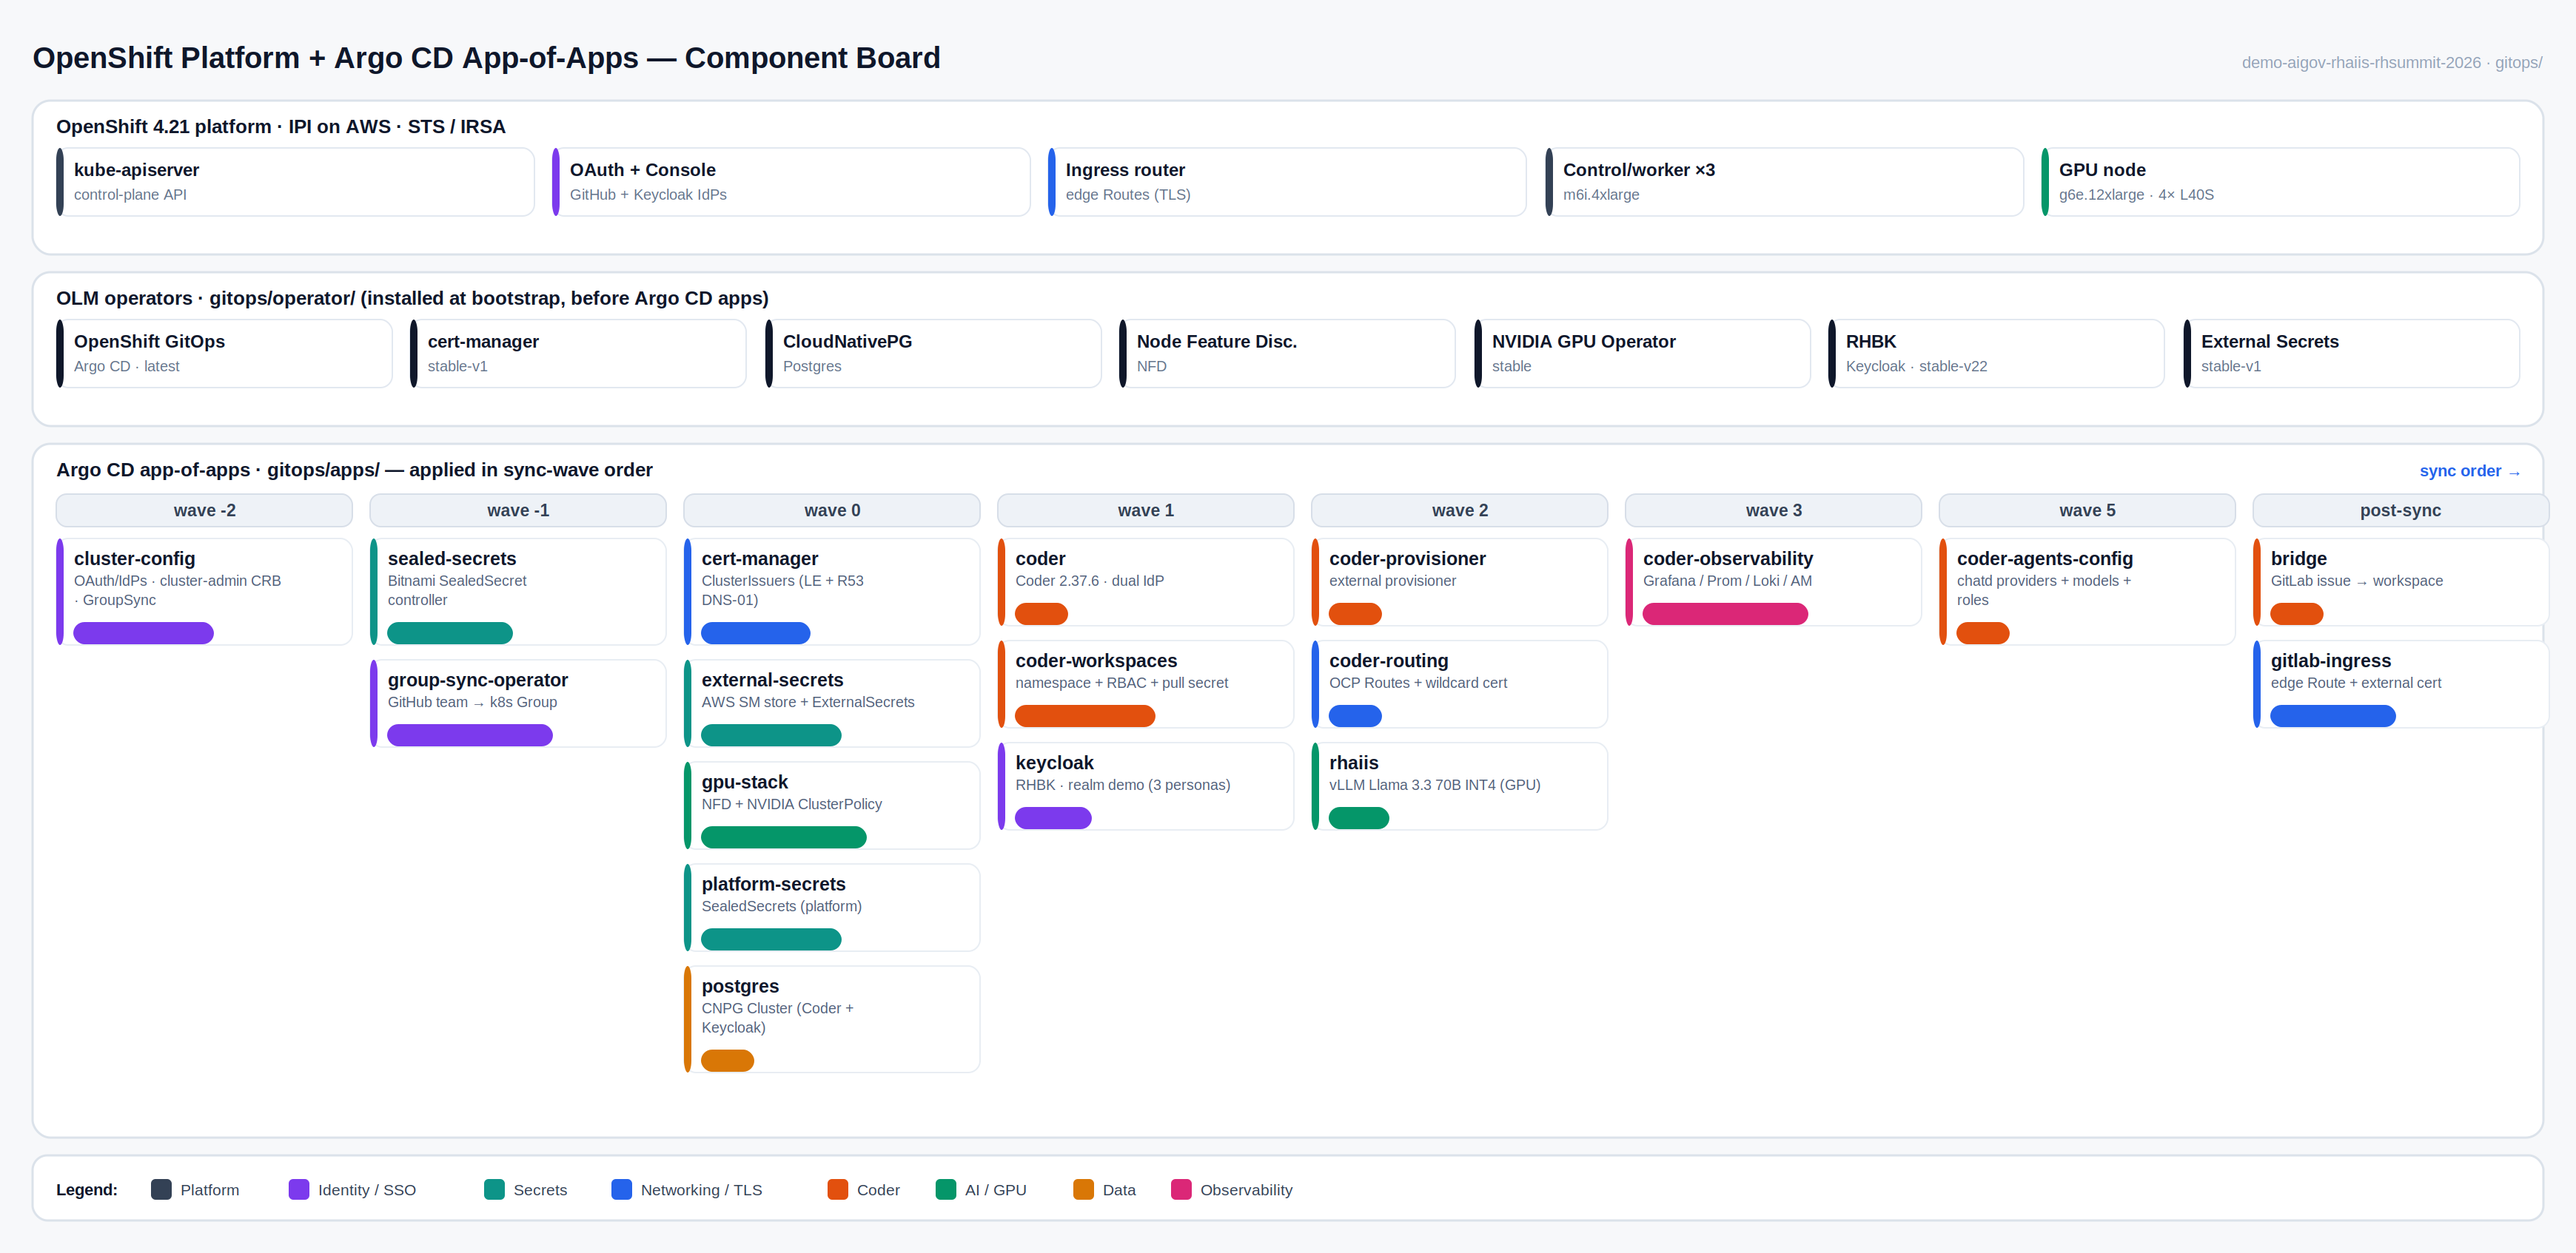
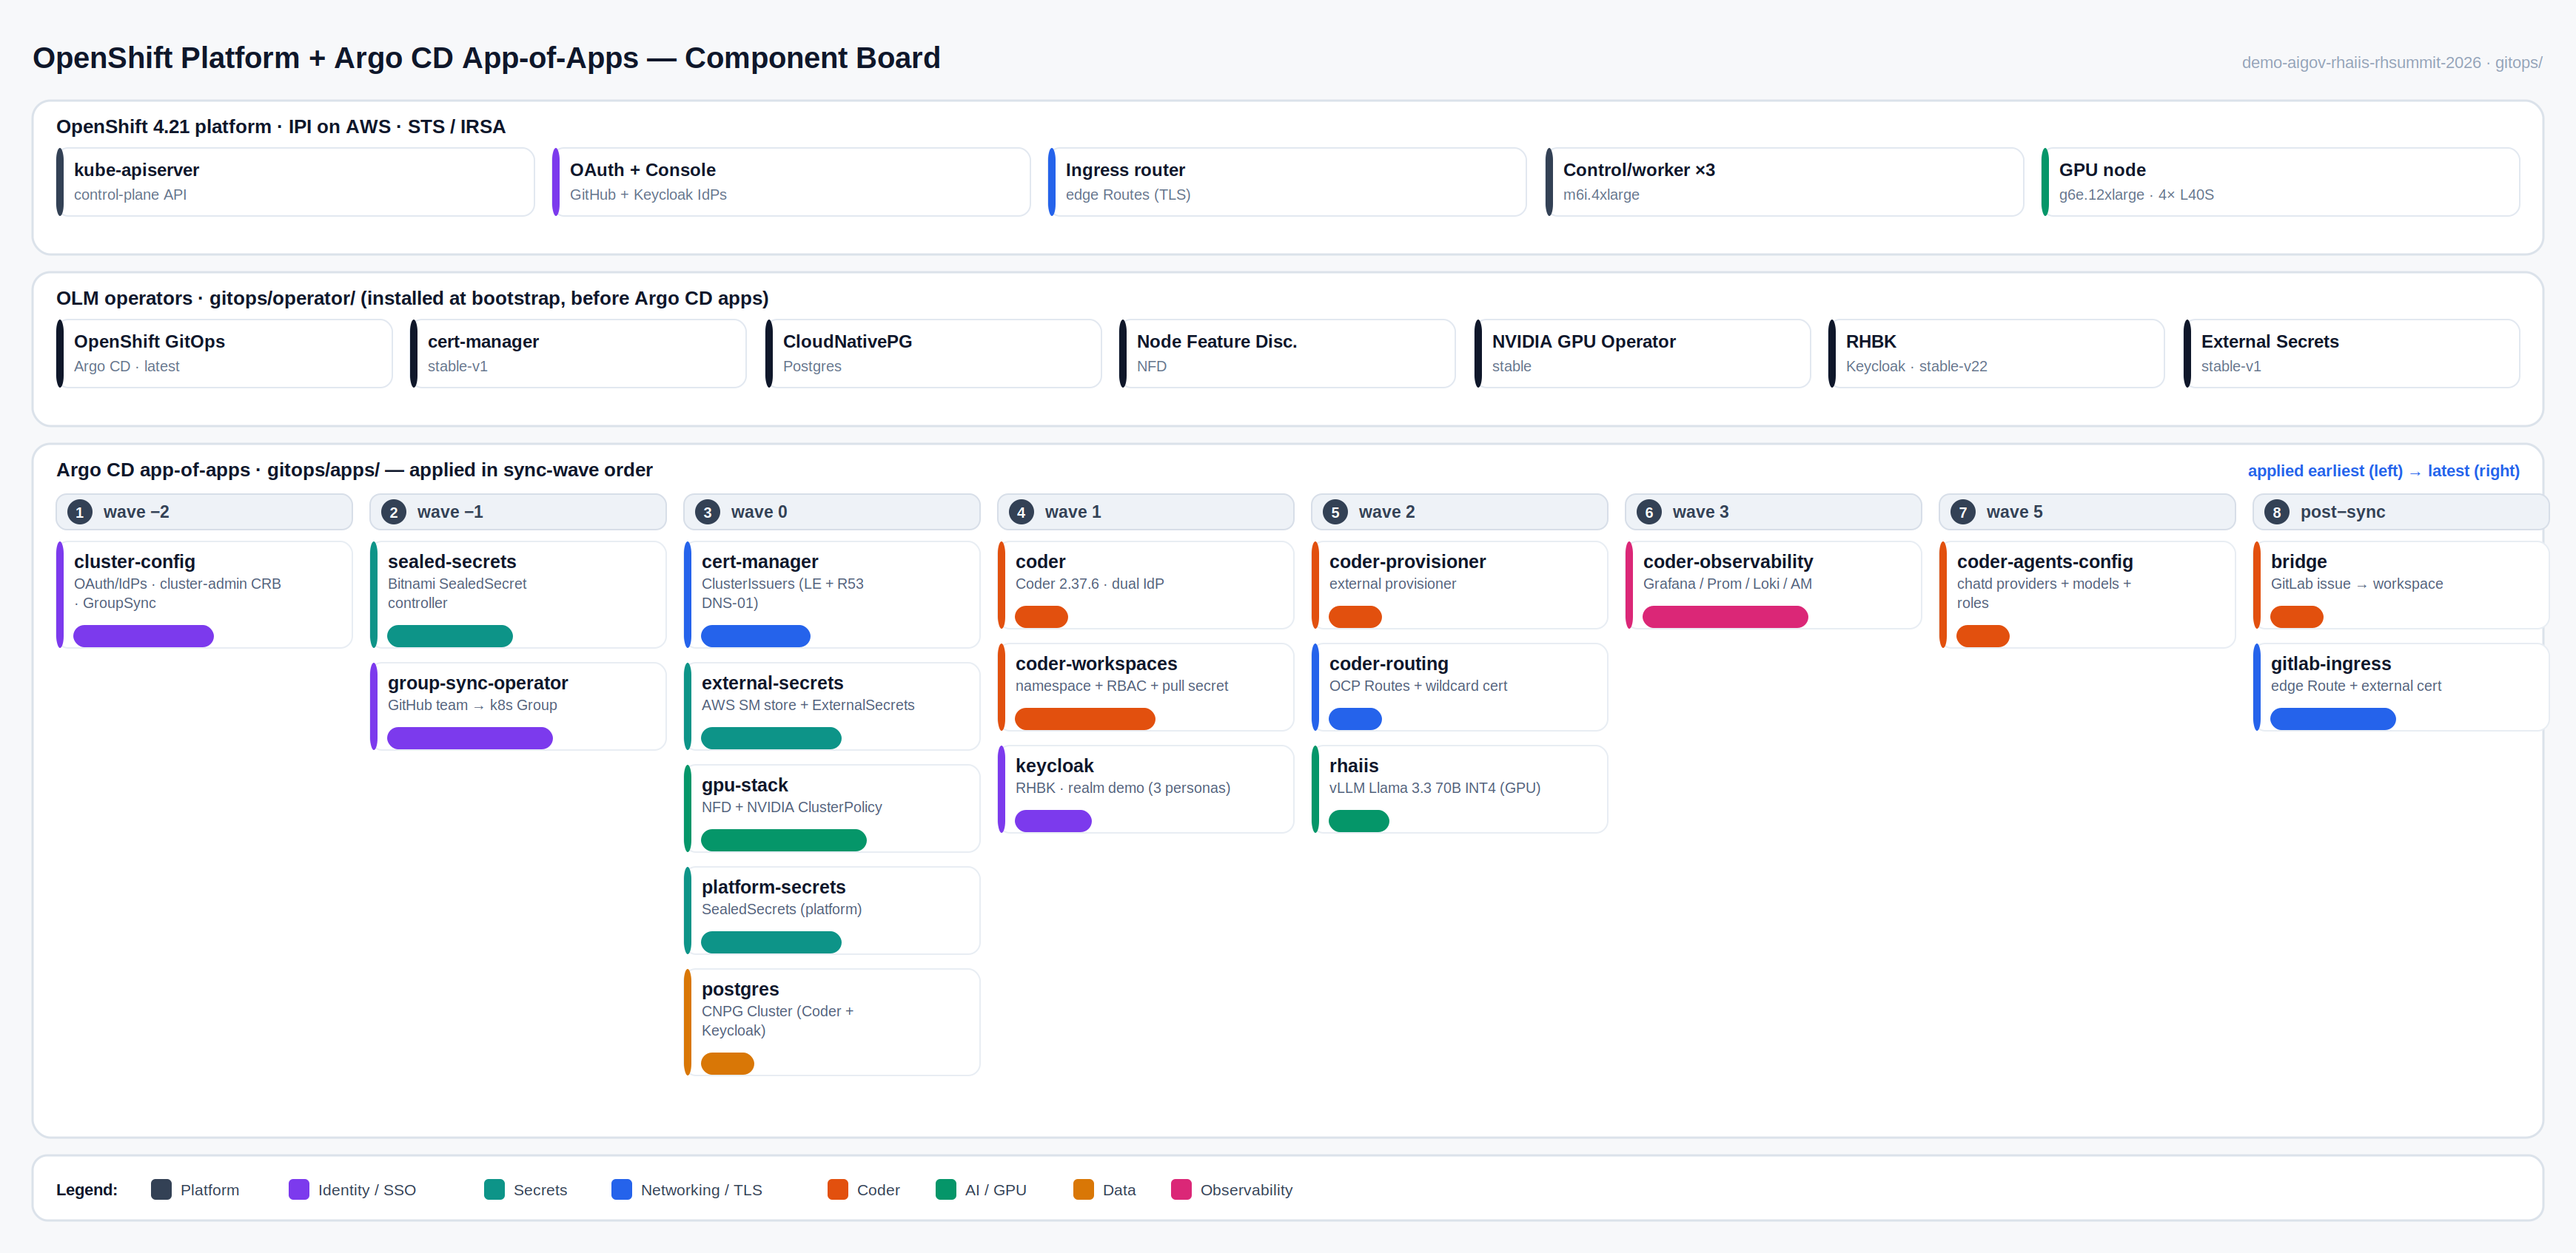
docs: clarify Argo CD sync-wave ordering on the board (L→R sequence badges, clear minus)
Columns were already left-to-right ascending (wave -2 first); the thin hyphen made
'wave -2'/'wave -1' read as '2'/'1' before '0'. Add a 1..8 left-to-right sequence
badge to each wave header, render the minus with U+2212, and label direction
'applied earliest (left) -> latest (right)'.

diff --git a/docs/architecture-board.py b/docs/architecture-board.py
@@ -173,15 +173,17 @@ y += bandB_h + 12
 # ---- Band C: argo app-of-apps by wave ------------------------------------
 rrect(MARGIN, y, W - 2 * MARGIN, bandC_h, 12, "#ffffff", "#dbe2ea", 1.5)
 text(MARGIN + PANEL_PAD, y + 22, "Argo CD app-of-apps  ·  gitops/apps/  —  applied in sync-wave order", 13, "#0f172a", "bold")
-# arrow hint
-text(W - MARGIN - PANEL_PAD, y + 22, "sync order  →", 11, "#2563eb", "bold", "end")
+# direction hint (left = earliest wave, right = latest)
+text(W - MARGIN - PANEL_PAD, y + 22, "applied earliest (left)  →  latest (right)", 11, "#2563eb", "bold", "end")
 cy0 = y + 34
 x = MARGIN + PANEL_PAD
-for (wlabel, apps), chh in zip(waves, col_heights):
-    # wave header
-    rrect(x, cy0, COLW, 22, 7, "#eef2f7", "#d7dee8", 1)
-    text(x + COLW / 2, cy0 + 15, wlabel, 11.5, "#334155", "bold", "middle")
-    yy = cy0 + 30
+for seq, ((wlabel, apps), chh) in enumerate(zip(waves, col_heights), start=1):
+    # wave header: left-to-right sequence badge + wave value (clear − minus sign)
+    rrect(x, cy0, COLW, 24, 7, "#eef2f7", "#d7dee8", 1)
+    add(f'<circle cx="{x + 16:.0f}" cy="{cy0 + 12:.0f}" r="8.5" fill="#334155"/>')
+    text(x + 16, cy0 + 15.5, str(seq), 10, "#ffffff", "bold", "middle")
+    text(x + 32, cy0 + 16, wlabel.replace("-", "\u2212"), 11.5, "#334155", "bold", "start")
+    yy = cy0 + 32
     for app, desc, ns, concern in apps:
         h = card(x, yy, COLW, app, desc, ns, concern)
         yy += h + 10
